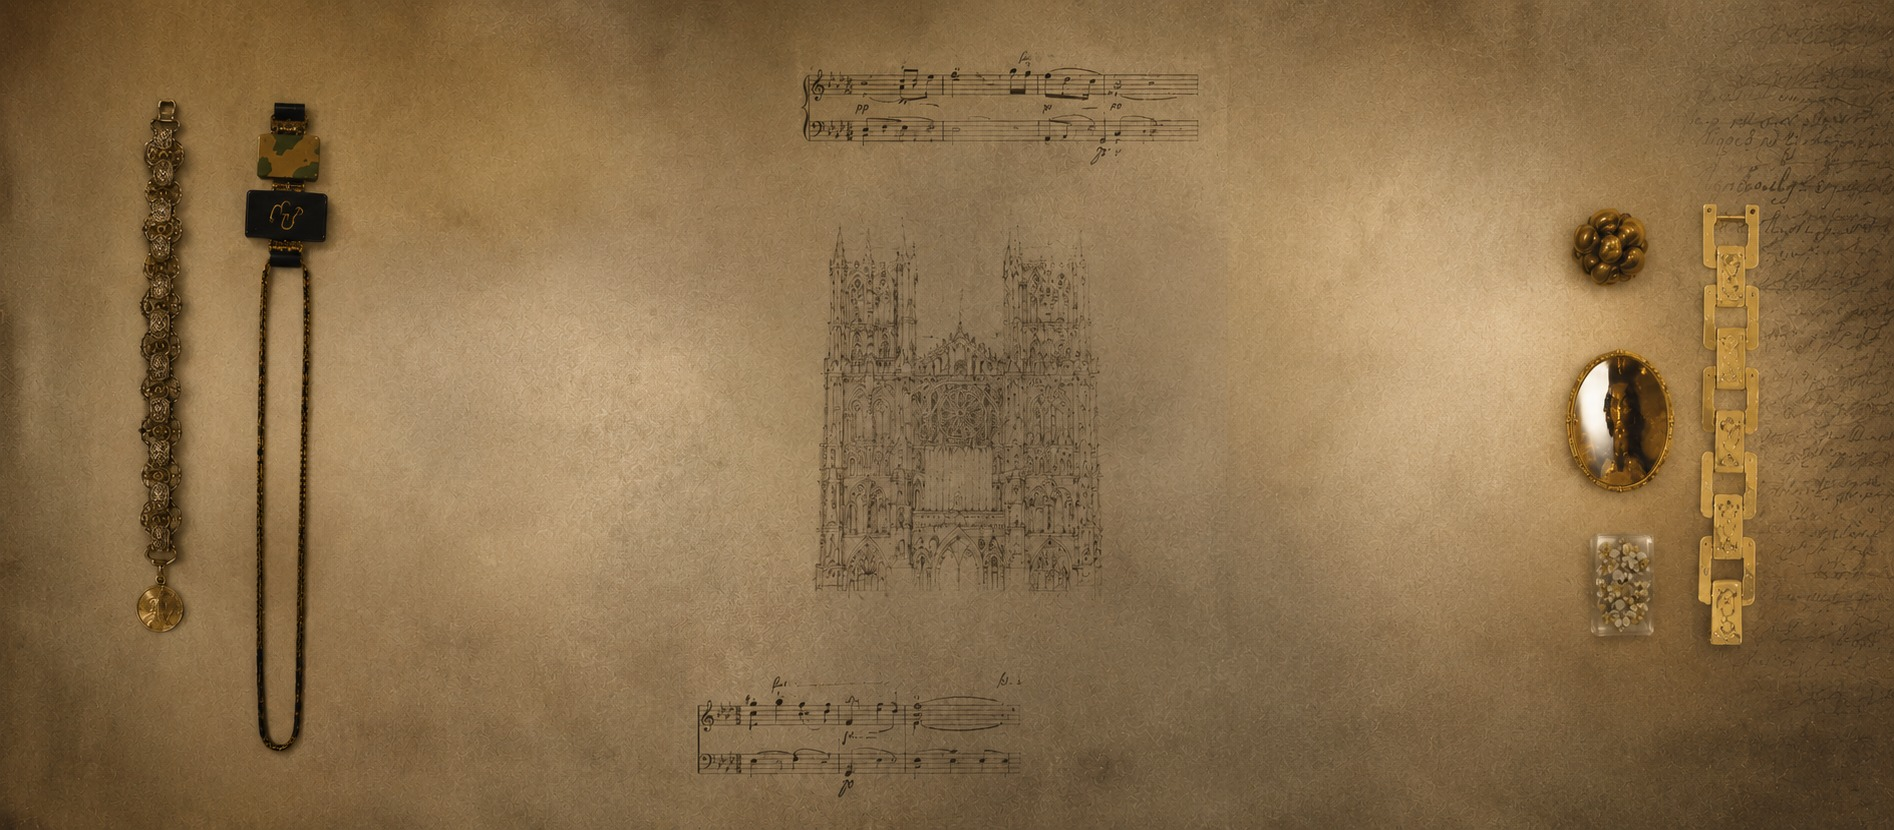
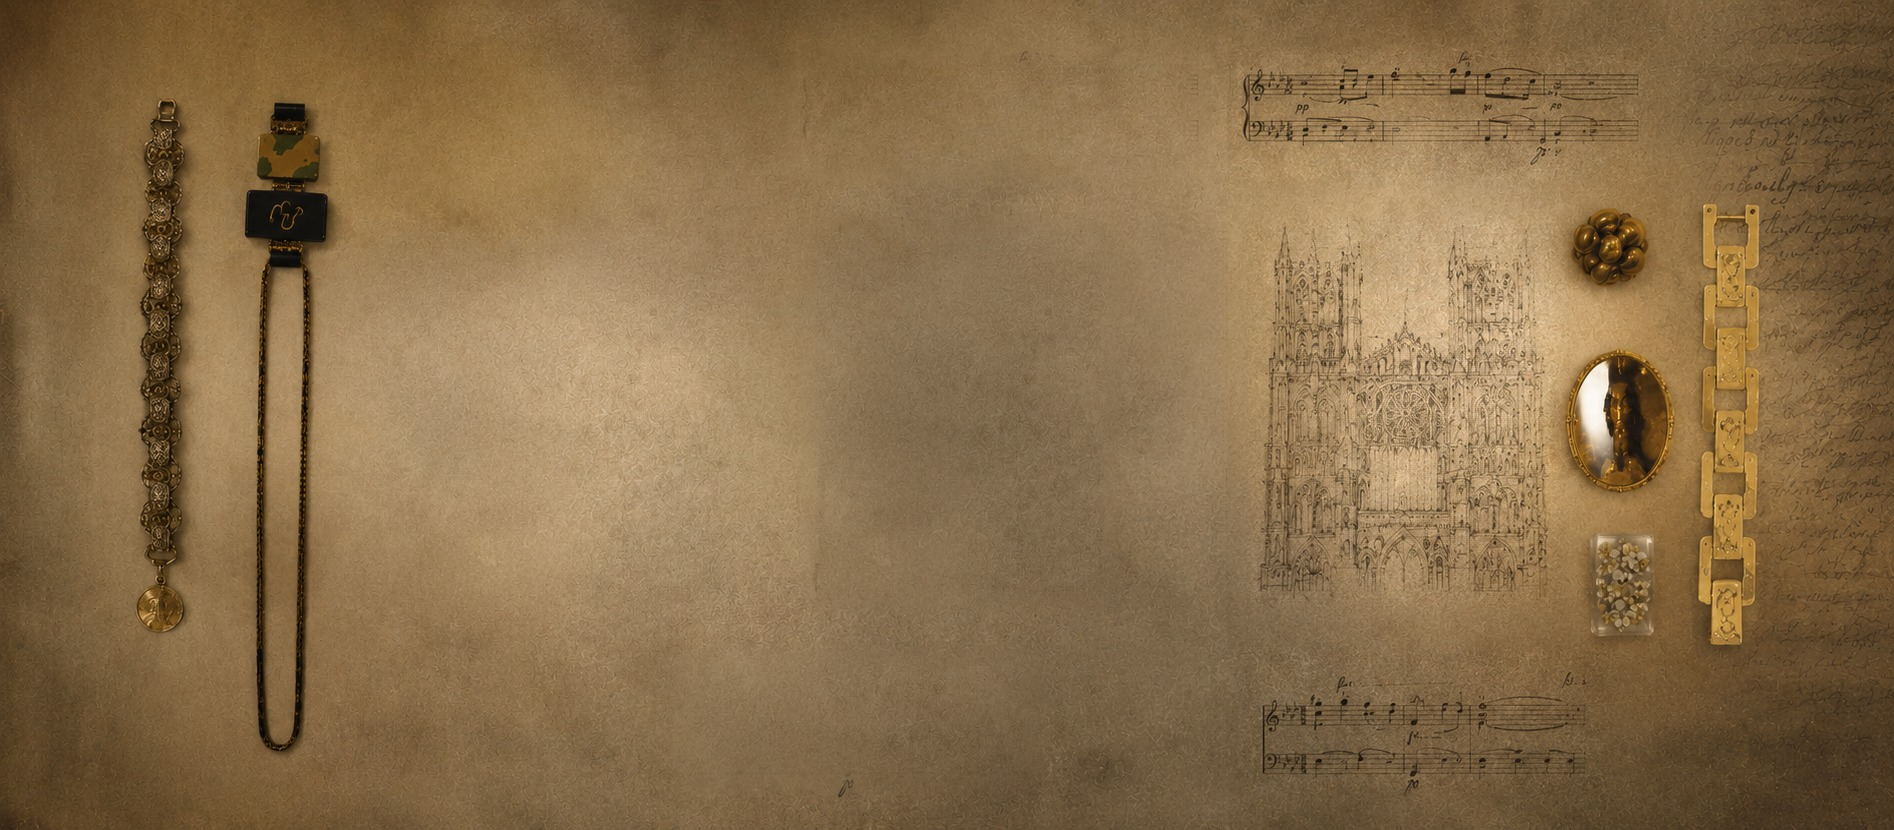
Le fond sepia : les portees et la gravure passent a droite
Elles etaient au milieu du papier, donc juste derriere la platine, et on ne
les voyait pas ; la droite, elle, etait vide.

Le trait est de l encre sur du papier : ce n est donc pas un rectangle de
pixels qui est deplace mais un rapport d assombrissement — le motif divise
par le papier qui le porte, puis remultiplie sur le papier d arrivee. Le
motif y prend la lumiere de son nouvel emplacement au lieu d y poser une
plaque plus claire que ce qui l entoure.

La place laissee vide est rebouchee avec du papier pris ailleurs, remis a la
clarte de l endroit et fondu sur ses bords. La lumiere du papier est mesuree
en ignorant les pixels d encre : la flouter avec eux la donnait trop sombre
sous les motifs, et la piece rapportee faisait alors une tache rectangulaire.

diff --git a/style.css b/style.css
@@ -1093,7 +1093,7 @@ body.alb-sepia .deco{
   display:block;
   position:absolute;inset:0;z-index:0;
   overflow:hidden;
-  background:url("assets/bg3.jpg?v=2") center center / cover no-repeat;
+  background:url("assets/bg3.jpg?v=3") center center / cover no-repeat;
   pointer-events:none;
   opacity:0;transition:opacity 1.4s ease .3s;
   animation:bgdrift 84s ease-in-out infinite alternate;

diff --git a/index.html b/index.html
@@ -13,7 +13,7 @@
 <meta property="og:image" content="assets/cover.jpg">
 <meta property="og:type" content="music.album">
 <meta name="twitter:card" content="summary_large_image">
-<link rel="stylesheet" href="style.css?v=10">
+<link rel="stylesheet" href="style.css?v=11">
 </head>
 <body>
 
